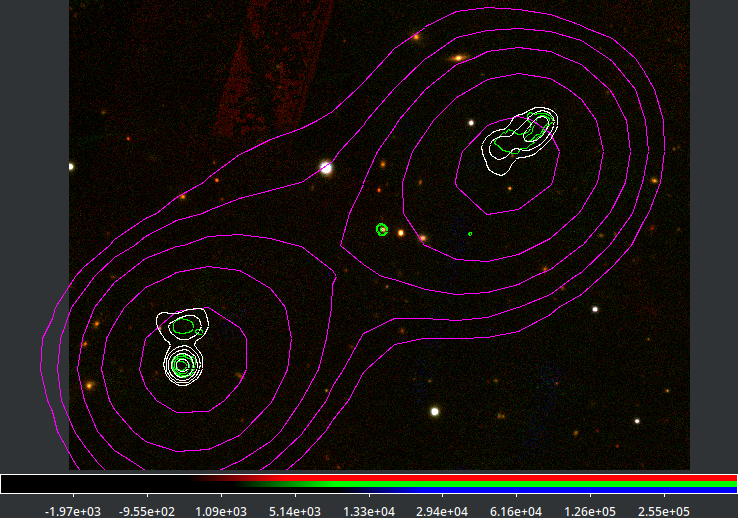
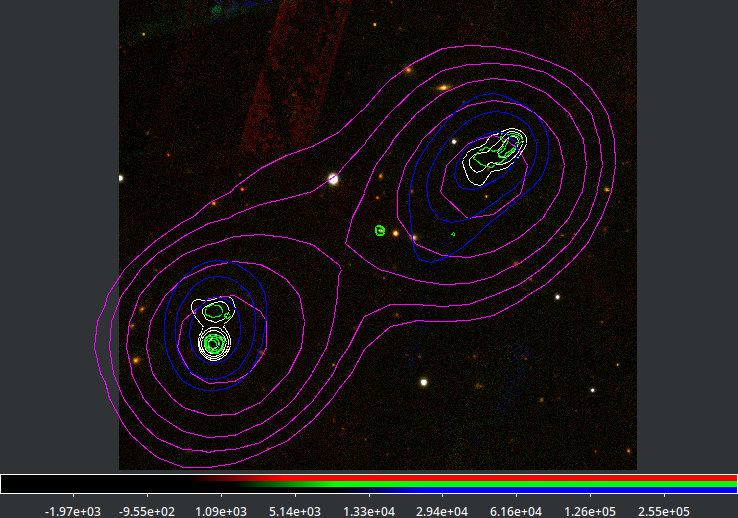
notes updated: fixed some labels

diff --git a/docs/notes.tex b/docs/notes.tex
@@ -1267,7 +1267,7 @@ The following images have contours plotted on them according to the legend below
   \centering
   \begin{minipage}{0.45\textwidth}
     \includegraphics[width=\textwidth]{images/J031333_noracs.png}
-    \caption*{\small FIRST (white), NVSS (magenta), VLASS (green)}
+    \caption*{\small FIRST (white), NVSS (magenta), VLASS (green), TGSS (blue)}
   \end{minipage}
   \hfill
   \begin{minipage}{0.45\textwidth}
@@ -1341,7 +1341,7 @@ $^\dagger$ TGSS detected contour only at $1.5 \sigma$
   \centering
   \begin{minipage}{0.45\textwidth}
     \includegraphics[width=\textwidth]{images/J104635_noracs.png}
-    \caption*{\small FIRST (white), NVSS (magenta), VLASS (green), TGSS (blue)}
+    \caption*{\small FIRST (black), NVSS (magenta), VLASS (green), TGSS (blue)}
   \end{minipage}
   \hfill
   \begin{minipage}{0.45\textwidth}
@@ -1356,7 +1356,7 @@ $^\dagger$ TGSS detected contour only at $1.5 \sigma$
   \centering
   \begin{minipage}{0.45\textwidth}
     \includegraphics[width=\textwidth]{images/J114604_noracs.png}
-    \caption*{\small FIRST (white), NVSS (magenta), VLASS (green), TGSS (blue)}
+    \caption*{\small FIRST (orange), NVSS (magenta), VLASS (green), TGSS (blue)}
   \end{minipage}
   \hfill
   \begin{minipage}{0.45\textwidth}
@@ -1406,7 +1406,7 @@ $^\dagger$ TGSS detected contour only at $1.5 \sigma$
   \hfill
   \begin{minipage}{0.45\textwidth}
     \includegraphics[width=\textwidth]{images/J152030_yesracs.png}
-    \caption*{\small LOTSS (pink), RACS low (cyan), RACS mid (red), RACS high (yellow)}
+    \caption*{\small LOTSS (pink), RACS mid (red), RACS high (yellow)}
   \end{minipage}
 \end{figure}
 
@@ -1421,7 +1421,7 @@ $^\dagger$ TGSS detected contour only at $1.5 \sigma$
   \hfill
   \begin{minipage}{0.45\textwidth}
     \includegraphics[width=\textwidth]{images/J152040_yesracs.png}
-    \caption*{\small LOTSS (pink), RACS low (cyan), RACS mid (red), RACS high (yellow)}
+    \caption*{\small LOTSS (pink), RACS mid (red), RACS high (yellow)}
   \end{minipage}
 \end{figure}
 
@@ -1436,7 +1436,7 @@ $^\dagger$ TGSS detected contour only at $1.5 \sigma$
   \hfill
   \begin{minipage}{0.45\textwidth}
     \includegraphics[width=\textwidth]{images/J170112_yesracs.png}
-    \caption*{\small LOTSS (pink), RACS low (cyan), RACS mid (red), RACS high (yellow)}
+    \caption*{\small LOTSS (pink), RACS mid (red), RACS high (yellow)}
   \end{minipage}
 \end{figure}
 